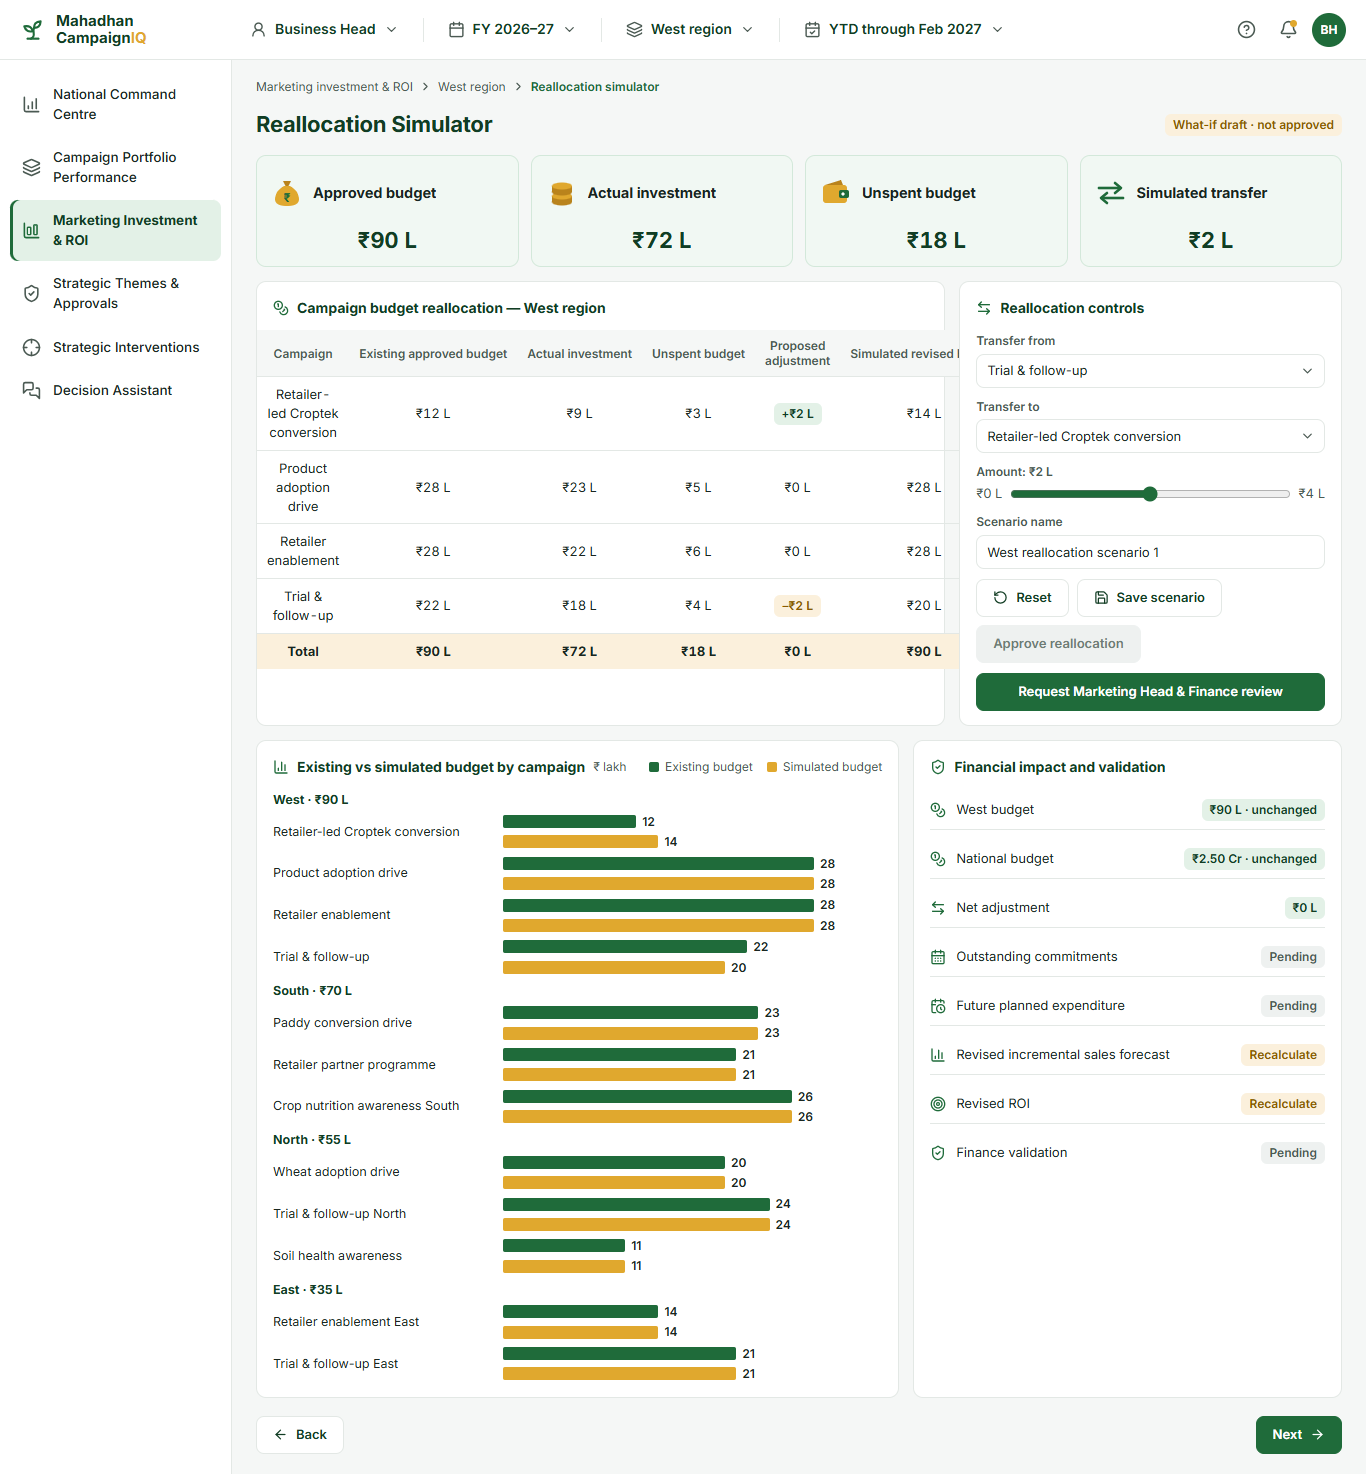
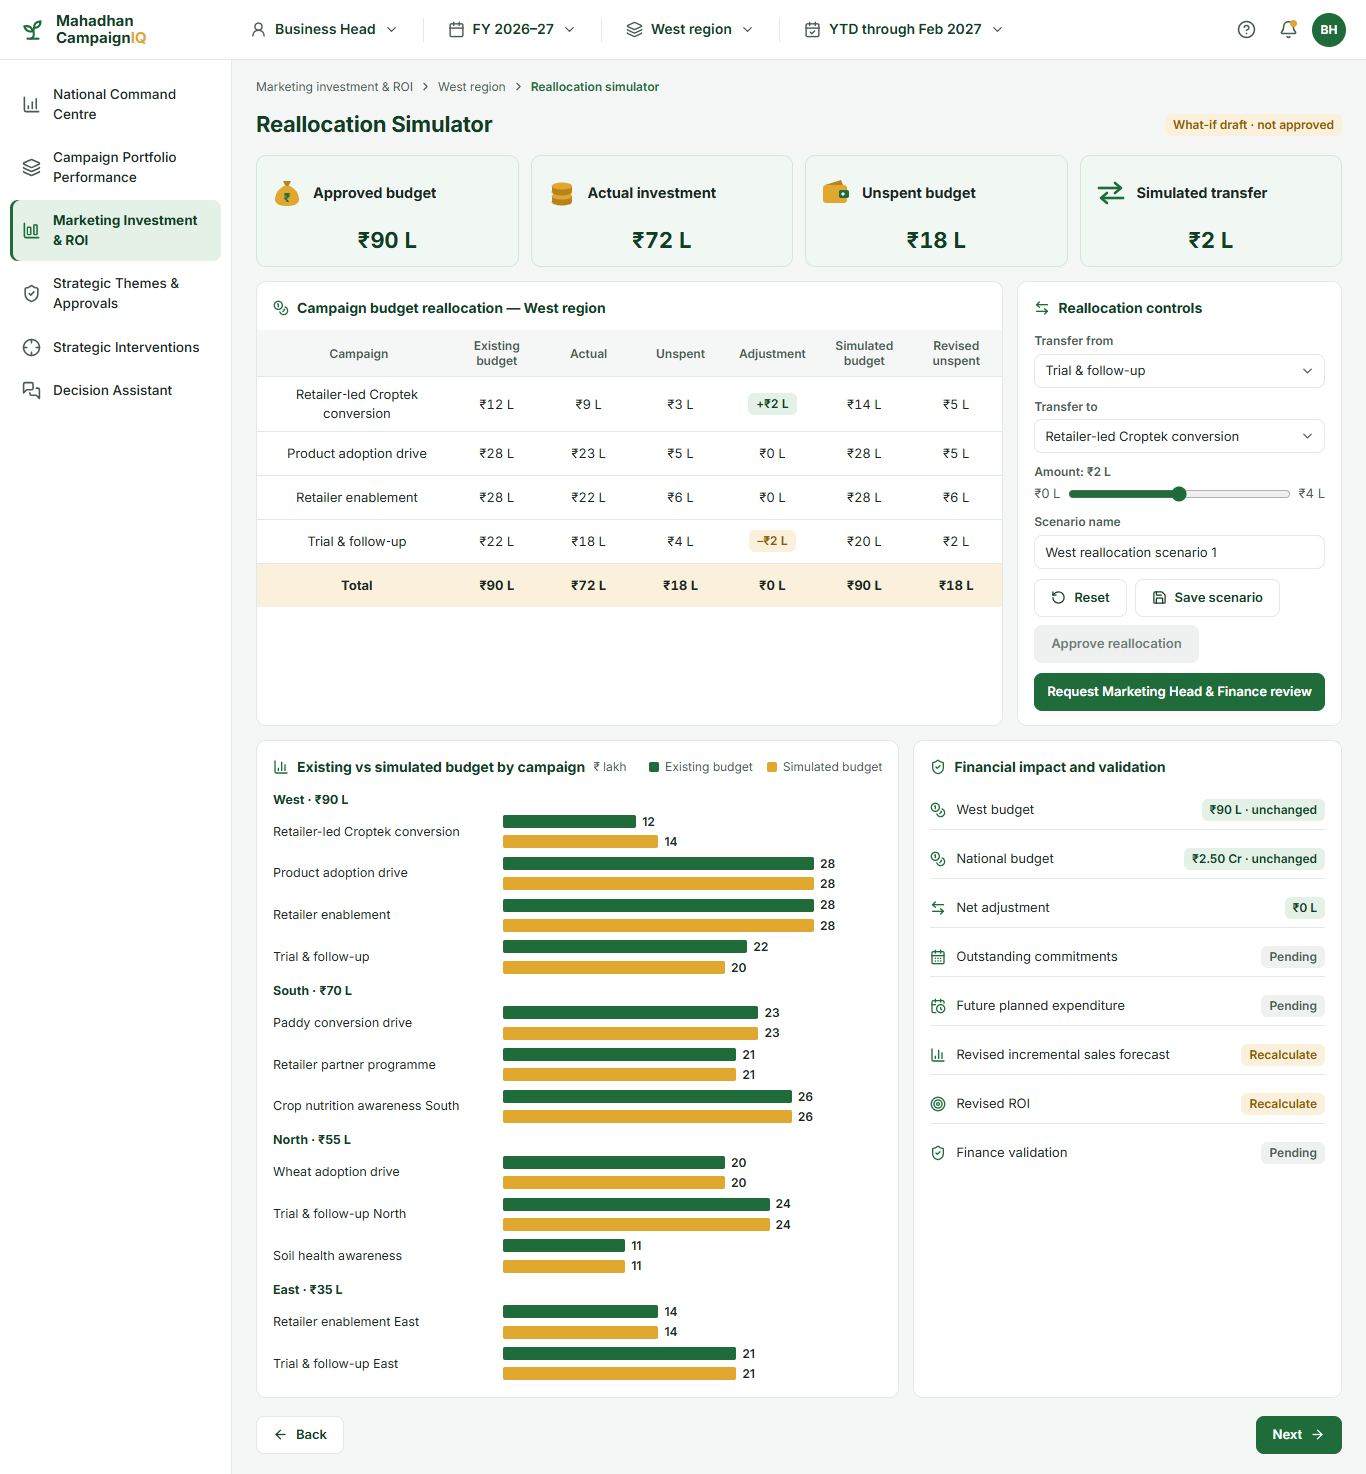
BH: fix reallocation table layout

Changed region(s): [[0.1845, 0.1872, 0.9531, 0.4993], [0.3382, 0.2809, 0.369, 0.3121]]

diff --git a/campaigniq-v3/src/screens/Investment.tsx b/campaigniq-v3/src/screens/Investment.tsx
@@ -384,17 +384,17 @@ export function Reallocation() {
         <KpiCard label="Unspent budget" value={lakh(t.unspent)} />
         <KpiCard label="Simulated transfer" value={lakh(valid ? amt : 0)} />
       </div>
-      <div className="grid" style={{ gridTemplateColumns: 'minmax(0, 1.8fr) minmax(0, 1fr)' }}>
-        <Card title={`Campaign budget reallocation — ${r.name} region`} icon={Coins} flush>
+      <div className="grid" style={{ gridTemplateColumns: 'minmax(0, 2.3fr) minmax(0, 1fr)' }}>
+        <Card className="realloc-card" title={`Campaign budget reallocation — ${r.name} region`} icon={Coins} flush>
           <DataTable rows={rows} rowKey={(x) => x.c.id}
             columns={[
-              { key: 'n', header: 'Campaign', render: (x) => x.c.name },
-              { key: 'ap', header: 'Existing approved budget', align: 'right', render: (x) => lakh(x.c.approved) },
-              { key: 'ac', header: 'Actual investment', align: 'right', render: (x) => lakh(x.c.actual) },
-              { key: 'un', header: 'Unspent budget', align: 'right', render: (x) => lakh(unspentOf(x.c)) },
-              { key: 'ad', header: 'Proposed adjustment', align: 'center', render: (x) => adjChip(x.adj) },
-              { key: 'rb', header: 'Simulated revised budget', align: 'right', render: (x) => lakh(x.revised) },
-              { key: 'ru', header: 'Revised unspent budget', align: 'right', render: (x) => lakh(x.revisedUnspent) },
+              { key: 'n', header: 'Campaign', width: '26%', render: (x) => <span className="rc-name">{x.c.name.replace(/-/g, '‑')}</span> },
+              { key: 'ap', header: 'Existing budget', width: '12.33%', align: 'right', render: (x) => lakh(x.c.approved) },
+              { key: 'ac', header: 'Actual', width: '12.33%', align: 'right', render: (x) => lakh(x.c.actual) },
+              { key: 'un', header: 'Unspent', width: '12.33%', align: 'right', render: (x) => lakh(unspentOf(x.c)) },
+              { key: 'ad', header: 'Adjustment', width: '12.33%', align: 'center', render: (x) => adjChip(x.adj) },
+              { key: 'rb', header: 'Simulated budget', width: '12.33%', align: 'right', render: (x) => lakh(x.revised) },
+              { key: 'ru', header: 'Revised unspent', width: '12.33%', align: 'right', render: (x) => lakh(x.revisedUnspent) },
             ]}
             total={{ n: 'Total', ap: lakh(t.approved), ac: lakh(t.actual), un: lakh(t.unspent), ad: lakh(net), rb: lakh(sum(rows, (x) => x.revised)), ru: lakh(sum(rows, (x) => x.revisedUnspent)) }}
           />

diff --git a/campaigniq-v3/src/styles.css b/campaigniq-v3/src/styles.css
@@ -203,3 +203,11 @@ textarea.input { height: auto; min-height: 60px; padding: 8px 10px; resize: vert
 .ce-evidence { display: flex; align-items: center; gap: 16px; white-space: nowrap; font-size: 13px; color: var(--ink); overflow: hidden; }
 .ce-evidence > span:first-child { font-size: 12px; font-weight: 700; color: var(--ink-soft); }
 .ce-ev { display: inline-flex; align-items: center; gap: 5px; } .ce-ev svg { color: var(--brand); }
+/* ---------- reallocation table ---------- */
+.realloc-card .card-body { min-width: 0; }
+.realloc-card .tbl { width: 100%; table-layout: fixed; }
+.realloc-card .tbl th, .realloc-card .tbl td { hyphens: none; word-break: normal; overflow-wrap: normal; }
+.realloc-card .tbl th { white-space: normal; padding-left: 6px; padding-right: 6px; }
+.realloc-card .tbl td { height: 44px; }
+.realloc-card .tbl th:first-child, .realloc-card .tbl td:first-child { padding-left: 16px; }
+.realloc-card .rc-name { display: -webkit-box; -webkit-line-clamp: 2; -webkit-box-orient: vertical; overflow: hidden; }
